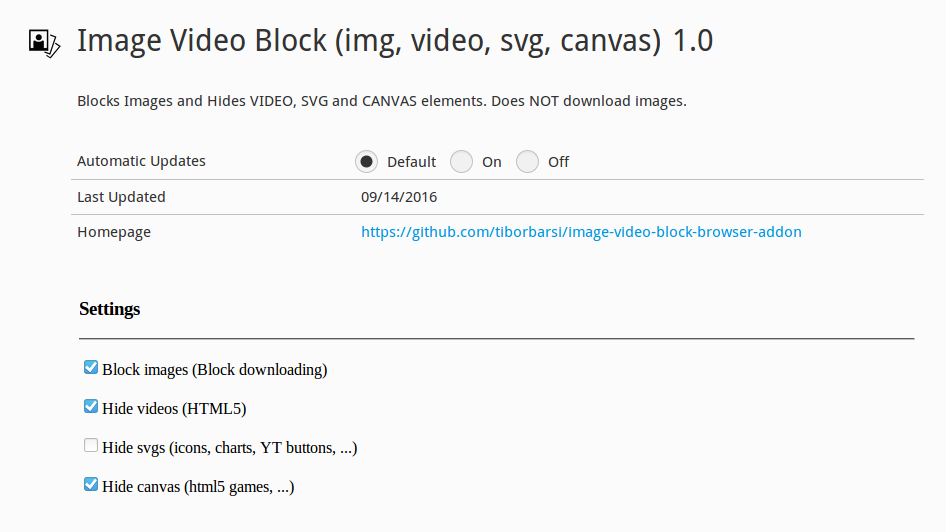
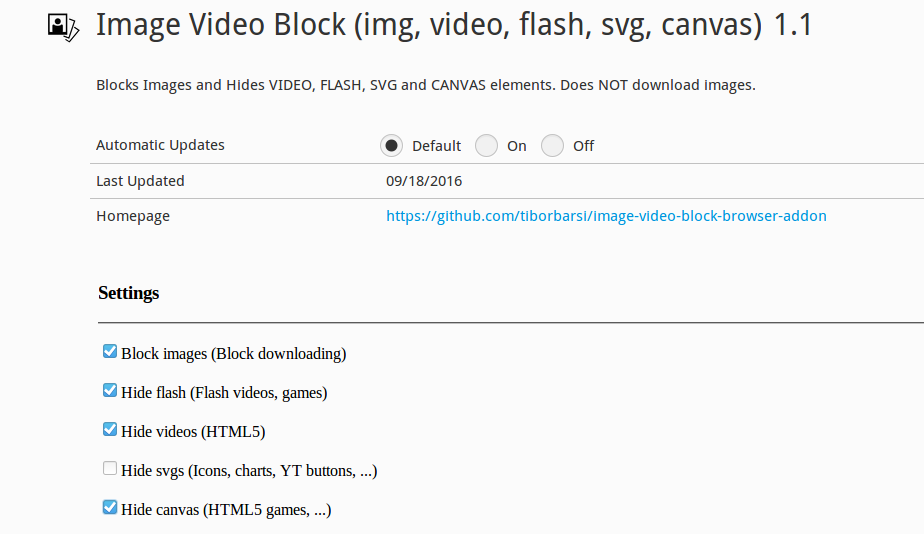
feat: Adds hide flash

diff --git a/src/options/options.html b/src/options/options.html
@@ -16,9 +16,10 @@
     <h3>Settings</h3>
     <hr>
     <p><label><input id="imgBlock" type="checkbox">Block images (Block downloading)</label></p>
+    <p><label><input id="flashHide" type="checkbox">Hide flash (Flash videos, games)</label></p>
     <p><label><input id="videoHide" type="checkbox">Hide videos (HTML5)</label></p>
-    <p><label><input id="svgHide" type="checkbox">Hide svgs (icons, charts, YT buttons, ...)</label></p>
-    <p><label><input id="canvasHide" type="checkbox">Hide canvas (html5 games, ...)</label></p>
+    <p><label><input id="svgHide" type="checkbox">Hide svgs (Icons, charts, YT buttons, ...)</label></p>
+    <p><label><input id="canvasHide" type="checkbox">Hide canvas (HTML5 games, ...)</label></p>
 
     <script src="options.js"></script>
 

diff --git a/src/options/options.js b/src/options/options.js
@@ -9,6 +9,7 @@ var options = {
   els: {
     imgBlock: $('input#imgBlock'),
     videoHide: $('input#videoHide'),
+    flashHide: $('input#flashHide'),
     svgHide: $('input#svgHide'),
     canvasHide: $('input#canvasHide')
   },
@@ -18,6 +19,7 @@ var options = {
     chrome.storage.local.get(function(data) {
       self.els.imgBlock.checked = data.imgBlock;
       self.els.videoHide.checked = data.videoHide;
+      self.els.flashHide.checked = data.flashHide;
       self.els.svgHide.checked = data.svgHide;
       self.els.canvasHide.checked = data.canvasHide;
     });

diff --git a/src/content_scripts/content_script.js b/src/content_scripts/content_script.js
@@ -1,7 +1,7 @@
 // content_script.js
 
 
-// Hides IMG, VIDEO, SVG, CANVAS
+// Hides IMG, VIDEO, FLASH, SVG, CANVAS
 chrome.storage.local.get(function(data) {
   var style = document.createElement('style');
 
@@ -16,6 +16,9 @@ chrome.storage.local.get(function(data) {
 
   if (data.canvasHide)
     style.innerText += 'canvas {opacity: 0 !important;}';
+
+  if (data.flashHide)
+    style.innerText += '[type="application/x-shockwave-flash"] {opacity: 0 !important;}';
 
   document.head.appendChild(style);
 });

diff --git a/readme.md b/readme.md
@@ -1,11 +1,12 @@
 # Image Video Block
 
-A Browser add-on that **Blocks Images** and **Hides VIDEO(html5), SVG and CANVAS** elements.
+A Browser add-on that **Blocks Images** and **Hides VIDEO(html5), FLASH, SVG and CANVAS** elements.
 
 Features:
 
 - Block Images (Does Not download)
 - Hide VIDEOs (HTML5 videos)
+- Hide FLASH (Flash videos, games, ...)
 - Hide SVGs (Icons, Charts, youtube player buttons, ...)
 - Hide CANVAS (html5 games, ...)
 
